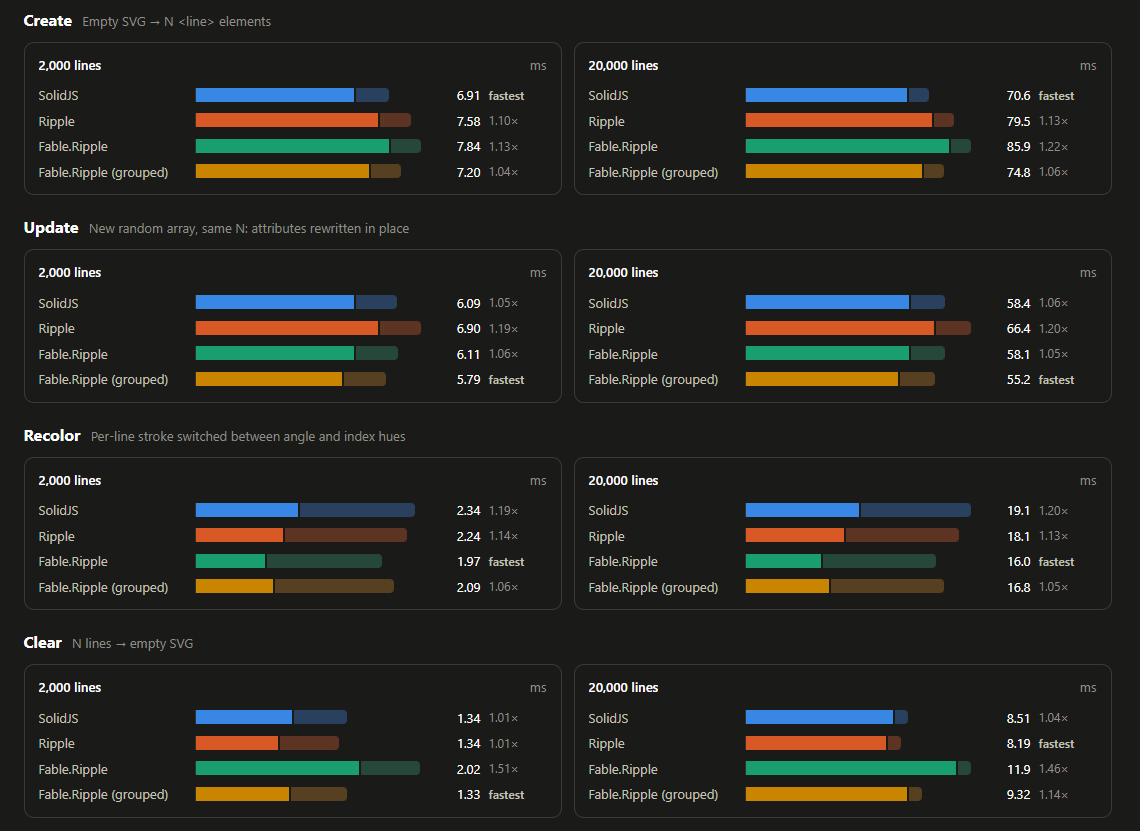
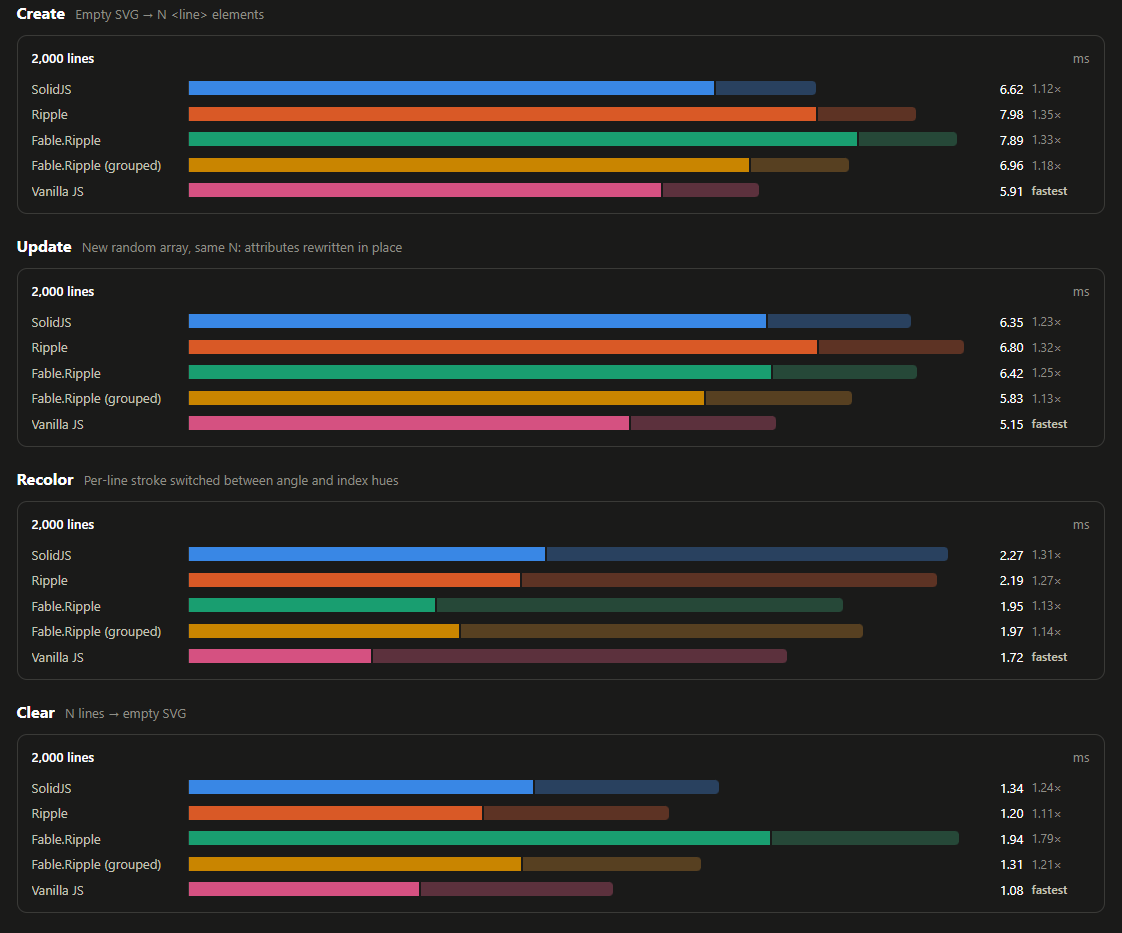
New compare screenshot with the vanilla JS baseline

diff --git a/README.md b/README.md
@@ -5,7 +5,7 @@ with a **vanilla JS** page (plain DOM calls, no framework) as the baseline.
 
 **Live demo: <https://goswinr.github.io/drawSVGBench/>** (see [Live demo](#live-demo) for its limits)
 
-![The compare page: bar charts of create, update, recolor and clear times for the four entries at 2,000 and 20,000 lines](docs/compare.png)
+![The compare page: bar charts of create, update, recolor and clear times for the five entries at 2,000 lines](docs/compare.png)
 
 The core data structure is one `Float64Array` of random floats; every 4 floats are one line
 (`x1 y1 x2 y2`, in pixels), at most 10% of the viewport width long. Each framework renders
@@ -41,9 +41,9 @@ up over earlier runs (headless Chrome, 1,000 to 100,000 lines):
   matches Solid and Ripple.
 - Recolor is mostly the browser's style recalculation, not framework work.
 
-The screenshot above is the compare page from a separate run at 2,000 and 20,000 lines.
-
-The vanilla JS baseline was added after these runs and is not in the table or the screenshot yet.
+The screenshot above is the compare page from a separate run at 2,000 lines, with the vanilla JS
+baseline. It was fastest in all four ops, 1.1–1.8× ahead of the others. The baseline was added after
+the run in the table, so it is not in the table yet.
 
 ## Quick start
 
